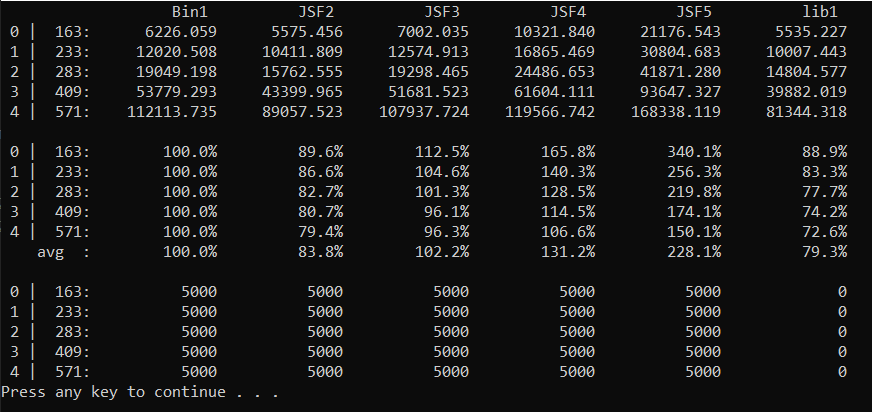
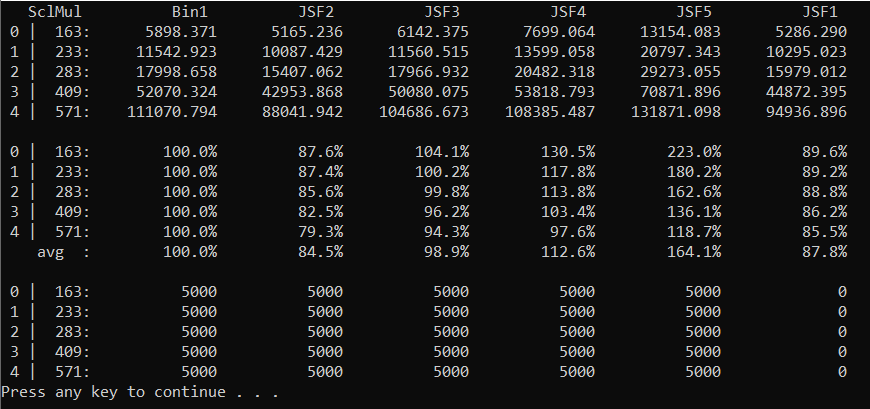
test new preMul dJSF

diff --git a/Paper/newtest.cpp b/Paper/newtest.cpp
@@ -48,9 +48,9 @@ void compares(csprng &Rng, pepoint P, big n, Result &res)
 			min1 = (min1 < dur1) ? min1 : dur1; 
 
 			// JSF2
-			ShamirDecompose(k, P, a, Q, b);
-			startTimer(&timer2);
 			//ShamirDecompose(k, P, a, Q, b);
+			startTimer(&timer2);
+			ShamirDecompose(k, P, a, Q, b);
 			//ShamirMul_Bin(a, P, b, Q, R2);
 			ShamirMul_JSF(a, P, b, Q, R2);
 			//ecurve2_mult2(a, P, b, Q, R2);
@@ -60,11 +60,11 @@ void compares(csprng &Rng, pepoint P, big n, Result &res)
 
 			// JSF3
 			//ShamirDecompose3(k, k1, k2, k3, P, P1, P2, P3);
-			ShamirDecompose_n(3, k, kx, P, Px);
+			//ShamirDecompose_n(3, k, kx, P, Px);
 			startTimer(&timer3);
 			//ShamirDecompose3(k, k1, k2, k3, P, P1, P2, P3);
 			//ShamirMul_Bin3(k1, k2, k3, P1, P2, P3, R3);
-			//ShamirDecompose_n(3, k, kx, P, Px);
+			ShamirDecompose_n(3, k, kx, P, Px);
 			//ShamirMul_Bin_n(3, kx, Px, R3);
 			ShamirMul_dJSF(3, kx, Px, R3);
 			//ecurve2_multn(3, kx, Px, R3);
@@ -73,9 +73,9 @@ void compares(csprng &Rng, pepoint P, big n, Result &res)
 			min3 = (min3 < dur3) ? min3 : dur3; 
 
 			// JSF4
-			ShamirDecompose_n(4, k, kx, P, Px);
-			startTimer(&timer4);
 			//ShamirDecompose_n(4, k, kx, P, Px);
+			startTimer(&timer4);
+			ShamirDecompose_n(4, k, kx, P, Px);
 			//ShamirMul_Bin_n(4, kx, Px, R4);
 			//ShamirDecompose(k, P, a, Q, b);
 			//ShamirMul_JSF(&shrOpt, a, P, b, Q, R4);
@@ -86,9 +86,9 @@ void compares(csprng &Rng, pepoint P, big n, Result &res)
 			min4 = (min4 < dur4) ? min4 : dur4; 
 
 			// JSF1
-			ShamirDecompose_n(5, k, kx, P, Px);
+			//ShamirDecompose_n(5, k, kx, P, Px);
 			startTimer(&timer5);
-			//ShamirDecompose_n(1, k, kx, P, Px);
+			ShamirDecompose_n(5, k, kx, P, Px);
 			//ShamirMul_Bin_n(5, kx, Px, R5);
 			ShamirMul_dJSF(5, kx, Px, R5);
 			//ShamirDecompose(k, P, a, Q, b);
@@ -99,8 +99,9 @@ void compares(csprng &Rng, pepoint P, big n, Result &res)
 			min5 = (min5 < dur5) ? min5 : dur5;
 
 			// lib1
-			startTimer(&timer6);
 			ShamirDecompose_n(1, k, kx, P, Px);
+			startTimer(&timer6);
+			//ShamirDecompose_n(1, k, kx, P, Px);
 			ShamirMul_dJSF(1, kx, Px, R);
 			//ecurve2_multn(3, kx, Px, R);
 			//ShamirDecompose(k, P, a, Q, b);
